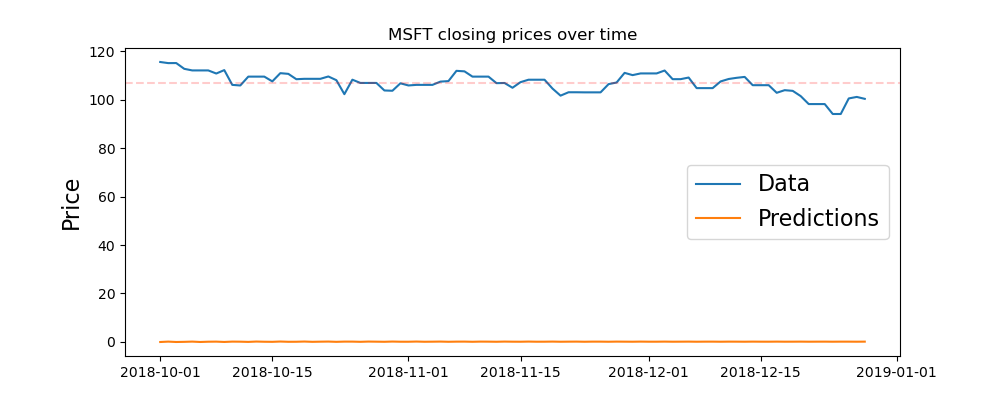
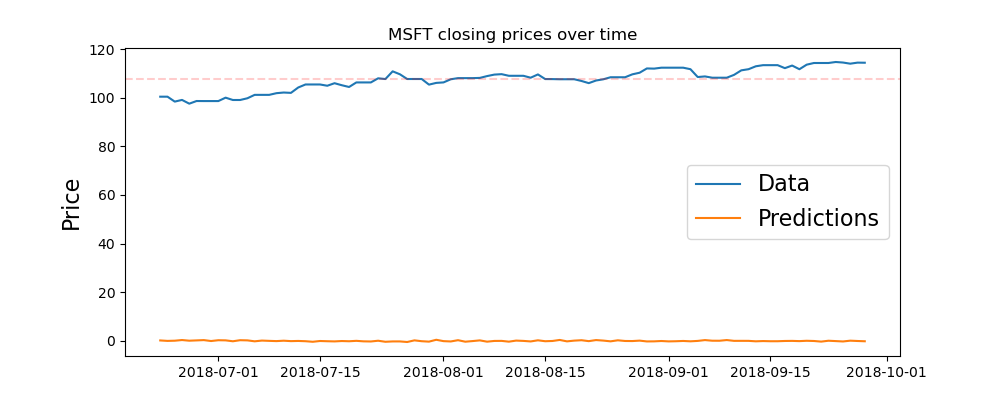
added GARCH model

diff --git a/Data_prep/Data_preparation.py b/Data_prep/Data_preparation.py
@@ -1,19 +1,26 @@
 import pandas as pd
 import yfinance as yf
+from datetime import datetime, timedelta
+
+# setting dates and timeframe
+startdate = datetime(2016, 1, 1)
+enddate = datetime(2018, 10, 1)
+train_end = datetime(2018, 6, 22)
+test_end = datetime(2018, 10, 1)
 
 # pulling stock data
-MSFTdf = yf.download('MSFT', period='1d', start='2016-1-1', end='2018-12-31', auto_adjust = False)
+MSFTdf = yf.download('MSFT', period='1d', start=startdate, end=enddate, auto_adjust = False)
 MSFTdf.index = pd.to_datetime(MSFTdf.index)
 MSFTdf.insert(0, 'Date', MSFTdf.index)
 MSFTdf['Ticker'] = 'MSFT'
 
-SPYdf = yf.download('SPY', period='1d', start='2016-1-1', end='2018-12-31', auto_adjust = False)
+SPYdf = yf.download('SPY', period='1d', start=startdate, end=enddate, auto_adjust = False)
 SPYdf.index = pd.to_datetime(SPYdf.index)
 SPYdf.insert(0, 'Date', SPYdf.index)
 SPYdf['Ticker'] = 'SPY'
 
 # calculate 200 day Simple Moving Average
-MSFTdf['200SMA'] = MSFTdf['Close'].rolling(window = 200).mean()
+#MSFTdf['200SMA'] = MSFTdf['Close'].rolling(window = 200).mean()
 
 # filling missing weekday data
 MSFTdf.set_index('Date', inplace=True)
@@ -24,15 +31,19 @@ SPYdf = SPYdf.resample('D').ffill().reset_index()
 # calculating derived variables
 MSFTdf['Intraday Range'] = abs(MSFTdf['Open'] - MSFTdf['High'])
 MSFTdf['IntChange'] = MSFTdf['Close'].diff()
-MSFTdf['IntPctChange'] = MSFTdf['Close'].pct_change() * 100
-SPYdf['IntPctChange'] = SPYdf['Close'].pct_change() * 100
-MSFTdf['SPY_PctDiff'] = MSFTdf['IntPctChange'] - SPYdf['IntPctChange']
+MSFTdf['Returns'] = MSFTdf['Close'].pct_change() * 100
+SPYdf['Returns'] = SPYdf['Close'].pct_change() * 100
+MSFTdf['SPY_PctDiff'] = MSFTdf['Returns'] - SPYdf['Returns']
 
 # removing missing values
 MSFTdf = MSFTdf.dropna()
 
 # setting date as index
 MSFTdf.set_index('Date', inplace=True)
+
+# building Training set
+train_data = MSFTdf.Close[:train_end]
+test_data = MSFTdf.Close[train_end + timedelta(days=1):test_end]
 
 # To export dataframe to .csv file
 #MSFTdf.to_csv('MSFT_updated.csv', sep=',', index = True)

diff --git a/ARIMA/ARIMA_Plots.py b/ARIMA/ARIMA_Plots.py
@@ -2,26 +2,6 @@ from ARIMA import residuals, test_data, predictions, MSFTdf
 import pandas as pd
 from matplotlib import pyplot as plt
 
-# plotting closing price data
-plt.figure(figsize=(10,4))
-plt.plot(MSFTdf.Close)
-plt.title('MSFT closing prices over time')
-plt.ylabel('Price', fontsize = 16)
-for year in range(2017,2019):
-    plt.axvline(pd.to_datetime(str(year)+'-01-01'),color='k', linestyle= '--', alpha=0.2)
-plt.axhline(MSFTdf.Close.mean(), color='r', alpha =0.2, linestyle='--')
-#plt.savefig('Closing price MSFT')
-
-# plotting first difference data
-plt.figure(figsize=(10,4))
-plt.plot(MSFTdf.IntChange)
-plt.title('MSFT first difference closing prices over time')
-plt.ylabel('Price', fontsize = 16)
-for year in range(2017,2019):
-    plt.axvline(pd.to_datetime(str(year)+'-01-01'),color='k', linestyle= '--', alpha=0.2)
-plt.axhline(MSFTdf.IntChange.mean(), color='r', alpha =0.2, linestyle='--')
-#plt.savefig('First Differences MSFT')
-
 # plotting ARIMA residuals
 plt.figure(figsize=(10,4))
 plt.plot(residuals)
@@ -30,7 +10,7 @@ plt.ylabel('Error', fontsize=16)
 plt.axhline(residuals.mean(), color = 'r', linestyle='--', alpha = 0.2)
 for year in range(2019,2019):
     plt.axvline(pd.to_datetime(str(year) + '-01-01'), color='k', linestyle='--', alpha=0.2)
-#plt.savefig('Residuals ARIMA')
+plt.savefig('Residuals ARIMA')
 
 # plotting prediction and test data
 plt.figure(figsize=(10,4))
@@ -42,5 +22,5 @@ plt.ylabel('Price', fontsize = 16)
 for year in range(2019,2019):
     plt.axvline(pd.to_datetime(str(year)+'-01-01'),color='k', linestyle= '--', alpha=0.2)
 plt.axhline(test_data.mean(), color='r', alpha =0.2, linestyle='--')
-#plt.savefig('Predicted ARIMA')
+plt.savefig('Predicted ARIMA')
 plt.show()

diff --git a/GARCH/GARCH.py b/GARCH/GARCH.py
@@ -1,0 +1,49 @@
+import pandas as pd
+import matplotlib.pyplot as plt
+from arch import arch_model
+import numpy as np
+from GARCH_data import MSFTdf, train_data, test_data
+
+test_size = len(test_data)
+
+# GARCH(1,1) model
+model = arch_model(train_data, p=1, q=1)
+model_fit = model.fit()
+print(model_fit)
+
+# Predicting GARCH
+pred_start_date = test_data.index[0]
+pred_end_date = test_data.index[-1]
+predictions = model_fit.forecast(horizon=test_size)
+sqrt_pred = np.sqrt(predictions.variance.values[-1,:])
+model_pred = pd.Series(sqrt_pred, index=MSFTdf.IntChange.index[-test_size:])
+
+# Plotting GARCH
+plt.figure(figsize=(10,4))
+data_vol = plt.plot(MSFTdf.Volatility[-test_size:])
+pred_vol = plt.plot(model_pred)
+plt.legend(('Data', 'Prediction'), fontsize=16)
+plt.title('Volatility in price first differences over time')
+plt.ylabel('Volatility', fontsize = 16)
+plt.savefig('Predicted GARCH')
+plt.show()
+
+# Rolling Origin
+roll = []
+for i in range(test_size):
+    train = MSFTdf.IntChange[:-(test_size-i)]
+    model = arch_model(train, p=1, q=1)
+    model_fit = model.fit(disp='off')
+    pred = model_fit.forecast(horizon=1)
+    roll.append(np.sqrt(pred.variance.values[-1,:][0]))
+roll = pd.Series(roll, index=MSFTdf.IntChange.index[-test_size:])
+
+# Plotting GARCH with Rolling Origin
+plt.figure(figsize=(10,4))
+data_vol = plt.plot(MSFTdf.Volatility[-test_size:])
+pred_vol = plt.plot(roll)
+plt.legend(('Data', 'Prediction'), fontsize=16)
+plt.title('Volatility in price first differences over time')
+plt.ylabel('Volatility', fontsize = 16)
+plt.savefig('Predicted GARCH (Rolling Origin Forecasting)')
+plt.show()

diff --git a/SARIMA/SARIMA_Plots.py b/SARIMA/SARIMA_Plots.py
@@ -1,26 +1,7 @@
-from SARIMA import sarima_residuals, test_data, sarima_predictions, MSFTdf
+from SARIMA import sarima_residuals, sarima_predictions
+from Data_prep.Data_preparation import test_data
 import pandas as pd
 from matplotlib import pyplot as plt
-
-# plotting closing price data
-plt.figure(figsize=(10,4))
-plt.plot(MSFTdf.Close)
-plt.title('MSFT closing prices over time')
-plt.ylabel('Price', fontsize = 16)
-for year in range(2017,2019):
-    plt.axvline(pd.to_datetime(str(year)+'-01-01'),color='k', linestyle= '--', alpha=0.2)
-plt.axhline(MSFTdf.Close.mean(), color='r', alpha =0.2, linestyle='--')
-plt.savefig('Closing price MSFT')
-
-# plotting first difference data
-plt.figure(figsize=(10,4))
-plt.plot(MSFTdf.IntChange)
-plt.title('MSFT first difference closing prices over time')
-plt.ylabel('Price', fontsize = 16)
-for year in range(2017,2019):
-    plt.axvline(pd.to_datetime(str(year)+'-01-01'),color='k', linestyle= '--', alpha=0.2)
-plt.axhline(MSFTdf.IntChange.mean(), color='r', alpha =0.2, linestyle='--')
-plt.savefig('First Differences MSFT')
 
 # plotting SARIMA residuals
 plt.figure(figsize=(10,4))
@@ -36,7 +17,7 @@ plt.savefig('Residuals SARIMA')
 plt.figure(figsize=(10,4))
 plt.plot(test_data)
 plt.plot(sarima_predictions)
-plt.legend(('Data', 'Predictions'), fontsize=16)
+plt.legend(('Data', 'Predictions'), fontsize=20)
 plt.title('MSFT closing prices over time')
 plt.ylabel('Price', fontsize = 16)
 for year in range(2019,2019):

diff --git a/GARCH/GARCH_data.py b/GARCH/GARCH_data.py
@@ -1,0 +1,30 @@
+import pandas as pd
+import numpy as np
+import yfinance as yf
+from datetime import datetime, timedelta
+
+# setting dates and timeframe
+startdate = datetime(2016, 1, 1)
+enddate = datetime(2018, 10, 1)
+train_end = datetime(2018, 6, 22)
+test_end = datetime(2018, 10, 1)
+
+# pulling stock data
+MSFTdf = yf.download('MSFT', period='1d', start=startdate, end=enddate, auto_adjust = False)
+MSFTdf.index = pd.to_datetime(MSFTdf.index)
+MSFTdf.insert(0, 'Date', MSFTdf.index)
+MSFTdf['Ticker'] = 'MSFT'
+
+# calculating derived variables
+MSFTdf['IntChange'] = MSFTdf['Close'].diff()
+MSFTdf['Volatility'] = MSFTdf['IntChange'].rolling(window=2).std() * np.sqrt(len(MSFTdf)) * 0.01 + 0.8
+
+# removing missing values
+MSFTdf = MSFTdf.dropna()
+
+# setting date as index
+MSFTdf.set_index('Date', inplace=True)
+
+# building Training set
+train_data = MSFTdf.IntChange[:train_end]
+test_data = MSFTdf.IntChange[train_end + timedelta(days=1):test_end]

diff --git a/Data_prep/Data_plot.py b/Data_prep/Data_plot.py
@@ -1,0 +1,23 @@
+from Data_prep.Data_preparation import MSFTdf
+import pandas as pd
+from matplotlib import pyplot as plt
+
+# plotting closing price data
+plt.figure(figsize=(10,4))
+plt.plot(MSFTdf.Close)
+plt.title('MSFT closing prices over time')
+plt.ylabel('Price', fontsize = 16)
+for year in range(2017,2019):
+    plt.axvline(pd.to_datetime(str(year)+'-01-01'),color='k', linestyle= '--', alpha=0.2)
+plt.axhline(MSFTdf.Close.mean(), color='r', alpha =0.2, linestyle='--')
+plt.savefig('Closing price MSFT')
+
+# plotting first difference data
+plt.figure(figsize=(10,4))
+plt.plot(MSFTdf.IntChange)
+plt.title('MSFT first difference closing prices over time')
+plt.ylabel('Price', fontsize = 16)
+for year in range(2017,2019):
+    plt.axvline(pd.to_datetime(str(year)+'-01-01'),color='k', linestyle= '--', alpha=0.2)
+plt.axhline(MSFTdf.IntChange.mean(), color='r', alpha =0.2, linestyle='--')
+plt.savefig('First Differences MSFT')

diff --git a/SARIMA/SARIMA.py b/SARIMA/SARIMA.py
@@ -1,18 +1,12 @@
-from Data_prep.Data_preparation import MSFTdf
+from Data_prep.Data_preparation import train_data, test_data
 import numpy as np
-from datetime import datetime
-from datetime import timedelta
 from time import time
 from statsmodels.tsa.statespace.sarimax import SARIMAX
 
-# Getting Training set
-train_end = datetime(2018, 1, 1)
-test_end = datetime(2018, 9, 30)
-train_data = MSFTdf.Close[:train_end]
-test_data = MSFTdf.Close[train_end + timedelta(days=1):test_end]
-
 # Building SARIMA(1,1,1)(0,1,2)12 model
-sarima_model = SARIMAX(train_data, order = (1,1,1), seasonal_order=(0,1,2,12))
+sarima_order = (1,1,1)
+season_order = (0,1,2,12)
+sarima_model = SARIMAX(train_data, order = sarima_order, seasonal_order=season_order)
 start = time()
 sarima_model_fit = sarima_model.fit()
 end = time()

diff --git a/ARIMA/ARIMA.py b/ARIMA/ARIMA.py
@@ -1,18 +1,11 @@
-from Data_prep.Data_preparation import MSFTdf
+from Data_prep.Data_preparation import MSFTdf, test_data
 import numpy as np
-from datetime import datetime
-from datetime import timedelta
 from time import time
 from statsmodels.tsa.arima_model import ARIMA
 
-# Getting Training set
-train_end = datetime(2018,1,1)
-test_end = datetime(2018,9,30)
-train_data = MSFTdf.Close[:train_end]
-test_data = MSFTdf.Close[train_end + timedelta(days=1):test_end]
-
 # Building ARIMA(3,1,3) model
-model = ARIMA(train_data, order=(3,1,3))
+arima_order = (3, 1, 3)
+model = ARIMA(MSFTdf.Close, order=arima_order)
 start = time()
 model_fit = model.fit()
 end = time()
